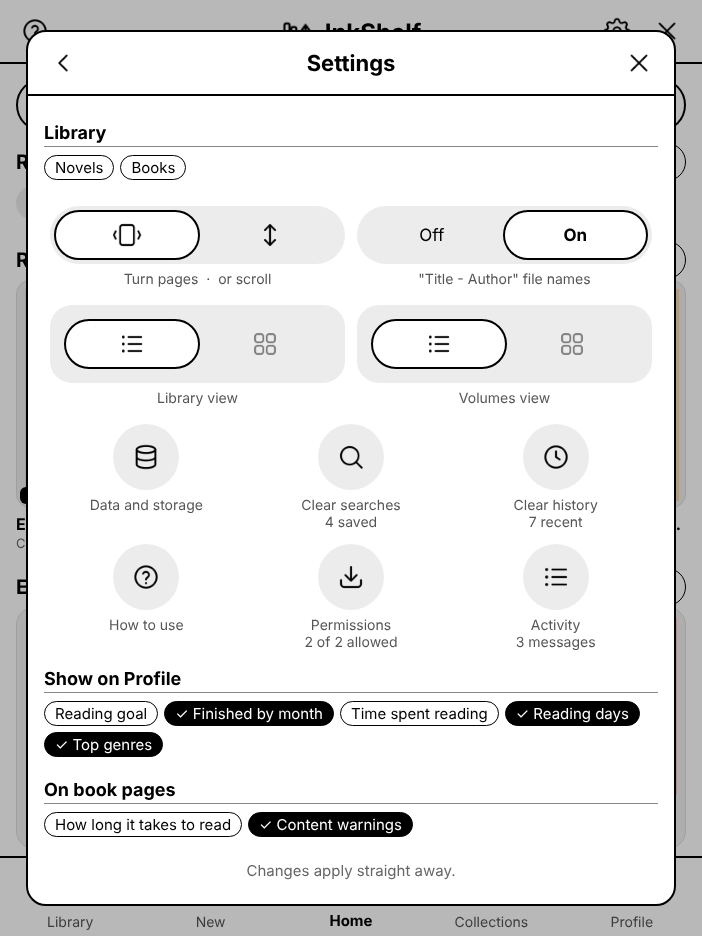
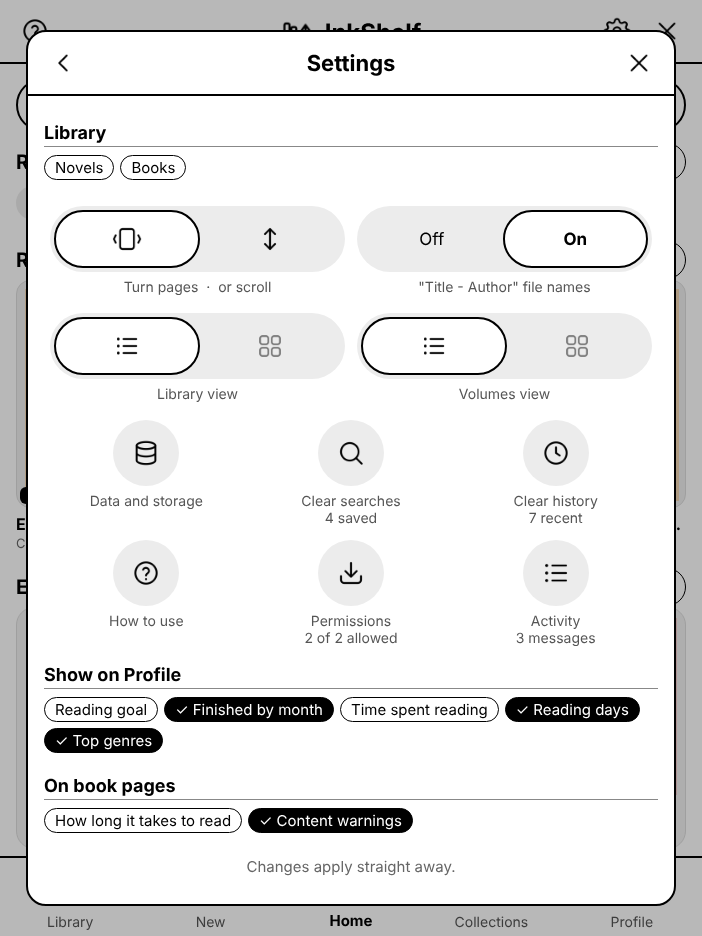
Settings: switches the same height as the round buttons
Claude-Session: https://claude.ai/code/session_01X56ddDHNWUKJn2BBuoFg9X

diff --git a/App.tsx b/App.tsx
@@ -5545,11 +5545,11 @@ const st = StyleSheet.create({
   sheet: {backgroundColor: '#ffffff', borderTopLeftRadius: px(28), borderTopRightRadius: px(28), borderWidth: 2, borderBottomWidth: 0, borderColor: BLACK, paddingHorizontal: px(22), paddingTop: px(10), paddingBottom: px(26)},
   handle: {width: px(56), height: px(5), borderRadius: px(3), backgroundColor: '#999999', marginBottom: px(8)},
   sheetTitle: {fontSize: px(17), color: '#555555'},
-  seg: {flexDirection: 'row', alignSelf: 'stretch', backgroundColor: '#ececec', borderRadius: px(30), padding: px(4), height: px(58)},
-  segItem: {flex: 1, borderRadius: px(26), alignItems: 'center', justifyContent: 'center'},
+  seg: {flexDirection: 'row', alignSelf: 'stretch', backgroundColor: '#ececec', borderRadius: px(33), padding: px(4), height: px(66)}, // same height as the round buttons
+  segItem: {flex: 1, borderRadius: px(29), alignItems: 'center', justifyContent: 'center'},
   segOn: {backgroundColor: '#ffffff', borderWidth: 2, borderColor: BLACK},
   segText: {fontSize: px(17), color: BLACK},
-  tile: {alignSelf: 'stretch', backgroundColor: '#ececec', borderRadius: px(22), padding: px(10)},
+  tile: {alignSelf: 'stretch'},
   tileLabel: {fontSize: px(14), color: '#555555', marginTop: px(6), textAlign: 'center'},
   round: {width: px(66), height: px(66), borderRadius: px(33), backgroundColor: '#ececec', alignItems: 'center', justifyContent: 'center'},
   roundText: {fontSize: px(28), color: BLACK},
